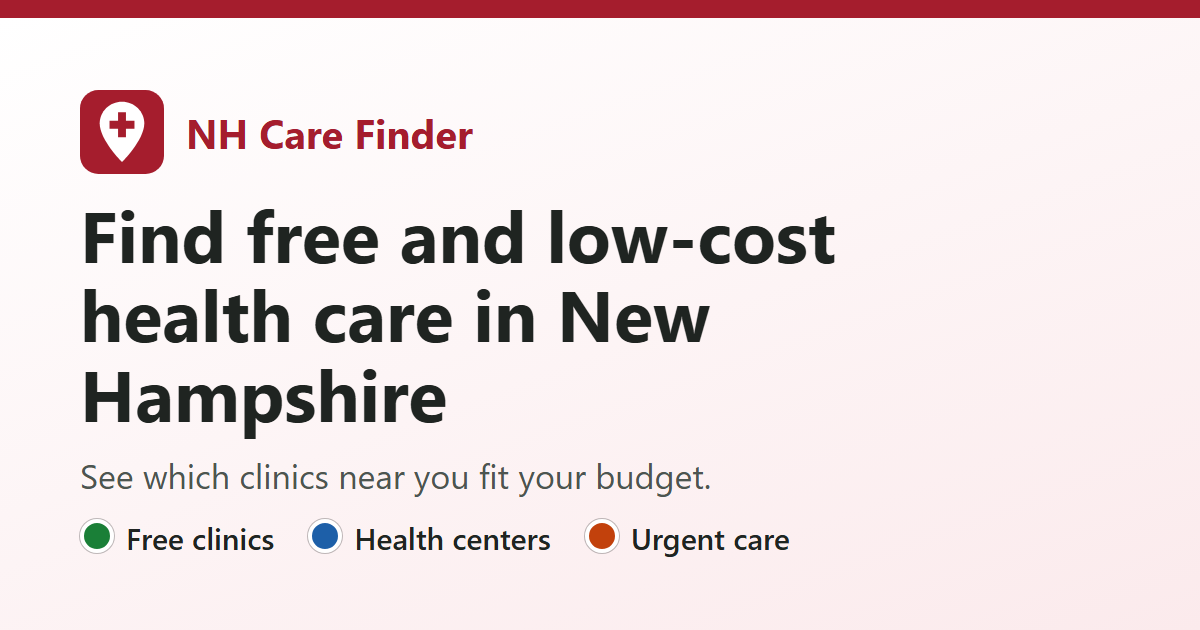
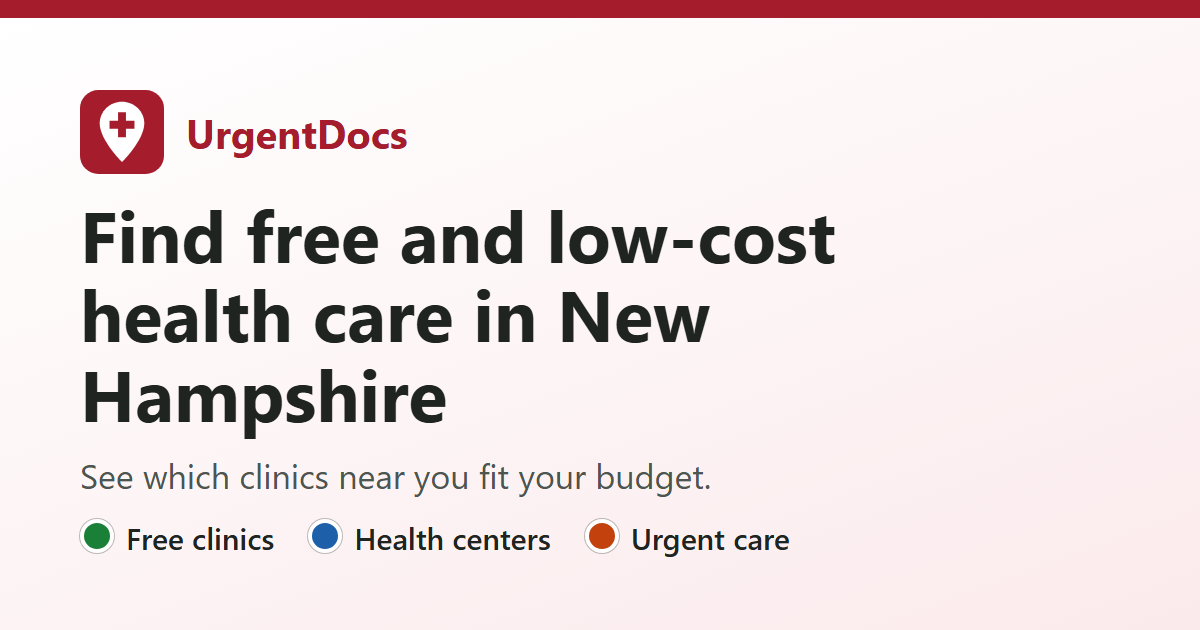
Rename the app to UrgentDocs
Replace "NH Care Finder" on every page, in every translation, the home
screen manifest, README, and project notes, and redraw the link
preview image with the new name.

Changed region(s): [[0.1542, 0.181, 0.4008, 0.2714]]

diff --git a/translations.js b/translations.js
@@ -21,10 +21,10 @@ const TRANSLATIONS = {
     "nav-about": "Acerca de",
     "footer-guide": "Esta aplicación es una guía, no un consejo médico. Llame antes para confirmar el horario y los costos.",
     "footer-about": "Acerca de esta aplicación y sus fuentes de datos",
-    "title-map": "Mapa · NH Care Finder",
-    "title-cost": "Ayuda con costos · NH Care Finder",
-    "title-help": "Más ayuda · NH Care Finder",
-    "title-about": "Acerca de · NH Care Finder",
+    "title-map": "Mapa · UrgentDocs",
+    "title-cost": "Ayuda con costos · UrgentDocs",
+    "title-help": "Más ayuda · UrgentDocs",
+    "title-about": "Acerca de · UrgentDocs",
 
     // --- Home page ---
     "home-title": "Encuentre atención médica gratuita y de bajo costo en New Hampshire",
@@ -104,8 +104,8 @@ const TRANSLATIONS = {
     "rx-generic": "<strong>Para todos:</strong> pregunte a su médico o farmacéutico si hay un medicamento genérico. Los genéricos suelen costar menos.",
 
     // --- About page ---
-    "about-heading": "Acerca de NH Care Finder",
-    "about-intro": "Muchas personas dejan de ir al médico porque les preocupa el costo. NH Care Finder ayuda a las personas en New Hampshire a encontrar las clínicas gratuitas y de bajo costo y los centros de atención de urgencia más cercanos, y a entender cuánto podrían pagar antes de ir.",
+    "about-heading": "Acerca de UrgentDocs",
+    "about-intro": "Muchas personas dejan de ir al médico porque les preocupa el costo. UrgentDocs ayuda a las personas en New Hampshire a encontrar las clínicas gratuitas y de bajo costo y los centros de atención de urgencia más cercanos, y a entender cuánto podrían pagar antes de ir.",
     "about-built": "Creado para el Congressional App Challenge 2026.",
     "about-privacy-heading": "Su privacidad",
     "about-privacy-1": "Su ubicación solo se usa en su dispositivo para medir distancias. Nunca se guarda ni se envía a ningún lugar.",
@@ -229,10 +229,10 @@ const TRANSLATIONS = {
     "nav-about": "À propos",
     "footer-guide": "Cette application est un guide, pas un avis médical. Appelez avant pour confirmer les horaires et les coûts.",
     "footer-about": "À propos de cette application et de ses sources de données",
-    "title-map": "Carte · NH Care Finder",
-    "title-cost": "Aide aux coûts · NH Care Finder",
-    "title-help": "Plus d'aide · NH Care Finder",
-    "title-about": "À propos · NH Care Finder",
+    "title-map": "Carte · UrgentDocs",
+    "title-cost": "Aide aux coûts · UrgentDocs",
+    "title-help": "Plus d'aide · UrgentDocs",
+    "title-about": "À propos · UrgentDocs",
 
     // --- Home page ---
     "home-title": "Trouvez des soins gratuits ou à faible coût au New Hampshire",
@@ -312,8 +312,8 @@ const TRANSLATIONS = {
     "rx-generic": "<strong>Pour tous :</strong> demandez à votre médecin ou à votre pharmacien s'il existe un médicament générique. Les génériques coûtent généralement moins cher.",
 
     // --- About page ---
-    "about-heading": "À propos de NH Care Finder",
-    "about-intro": "Beaucoup de gens repoussent une visite chez le médecin parce qu'ils s'inquiètent du coût. NH Care Finder aide les habitants du New Hampshire à trouver les cliniques gratuites ou à faible coût et les centres de soins urgents les plus proches, et à comprendre ce qu'ils risquent de payer avant d'y aller.",
+    "about-heading": "À propos de UrgentDocs",
+    "about-intro": "Beaucoup de gens repoussent une visite chez le médecin parce qu'ils s'inquiètent du coût. UrgentDocs aide les habitants du New Hampshire à trouver les cliniques gratuites ou à faible coût et les centres de soins urgents les plus proches, et à comprendre ce qu'ils risquent de payer avant d'y aller.",
     "about-built": "Créé pour le Congressional App Challenge 2026.",
     "about-privacy-heading": "Votre vie privée",
     "about-privacy-1": "Votre position n'est utilisée que sur votre appareil pour mesurer les distances. Elle n'est jamais enregistrée ni envoyée nulle part.",
@@ -437,10 +437,10 @@ const TRANSLATIONS = {
     "nav-about": "حول التطبيق",
     "footer-guide": "هذا التطبيق دليل وليس نصيحة طبية. اتصل مسبقًا لتأكيد المواعيد والتكاليف.",
     "footer-about": "حول هذا التطبيق ومصادر بياناته",
-    "title-map": "الخريطة · NH Care Finder",
-    "title-cost": "مساعد التكاليف · NH Care Finder",
-    "title-help": "مساعدة إضافية · NH Care Finder",
-    "title-about": "حول التطبيق · NH Care Finder",
+    "title-map": "الخريطة · UrgentDocs",
+    "title-cost": "مساعد التكاليف · UrgentDocs",
+    "title-help": "مساعدة إضافية · UrgentDocs",
+    "title-about": "حول التطبيق · UrgentDocs",
 
     // --- Home page ---
     "home-title": "اعثر على رعاية صحية مجانية ومنخفضة التكلفة في نيوهامبشر",
@@ -520,8 +520,8 @@ const TRANSLATIONS = {
     "rx-generic": "<strong>للجميع:</strong> اسأل طبيبك أو الصيدلي إن كان هناك دواء بديل (جنيس). الأدوية البديلة عادةً أرخص.",
 
     // --- About page ---
-    "about-heading": "حول NH Care Finder",
-    "about-intro": "كثير من الناس يؤجلون زيارة الطبيب لأنهم قلقون من التكلفة. يساعد NH Care Finder سكان نيوهامبشر على العثور على أقرب العيادات المجانية ومنخفضة التكلفة ومراكز الرعاية العاجلة، وفهم ما قد يدفعونه قبل الذهاب.",
+    "about-heading": "حول UrgentDocs",
+    "about-intro": "كثير من الناس يؤجلون زيارة الطبيب لأنهم قلقون من التكلفة. يساعد UrgentDocs سكان نيوهامبشر على العثور على أقرب العيادات المجانية ومنخفضة التكلفة ومراكز الرعاية العاجلة، وفهم ما قد يدفعونه قبل الذهاب.",
     "about-built": "صُمم لمسابقة التطبيقات في الكونغرس لعام 2026.",
     "about-privacy-heading": "خصوصيتك",
     "about-privacy-1": "يُستخدم موقعك على جهازك فقط لحساب المسافات. لا يُحفظ ولا يُرسل إلى أي مكان أبدًا.",
@@ -645,10 +645,10 @@ const TRANSLATIONS = {
     "nav-about": "关于",
     "footer-guide": "本应用仅供参考，不构成医疗建议。请提前致电确认营业时间和费用。",
     "footer-about": "关于本应用及其数据来源",
-    "title-map": "地图 · NH Care Finder",
-    "title-cost": "费用助手 · NH Care Finder",
-    "title-help": "更多帮助 · NH Care Finder",
-    "title-about": "关于 · NH Care Finder",
+    "title-map": "地图 · UrgentDocs",
+    "title-cost": "费用助手 · UrgentDocs",
+    "title-help": "更多帮助 · UrgentDocs",
+    "title-about": "关于 · UrgentDocs",
 
     // --- Home page ---
     "home-title": "在新罕布什尔州寻找免费和低价医疗服务",
@@ -728,8 +728,8 @@ const TRANSLATIONS = {
     "rx-generic": "<strong>所有人：</strong>询问您的医生或药剂师是否有仿制药。仿制药通常更便宜。",
 
     // --- About page ---
-    "about-heading": "关于 NH Care Finder",
-    "about-intro": "很多人因为担心费用而推迟看医生。NH Care Finder 帮助新罕布什尔州的居民找到最近的免费和低价诊所以及紧急护理中心，并在就诊前了解可能需要支付的费用。",
+    "about-heading": "关于 UrgentDocs",
+    "about-intro": "很多人因为担心费用而推迟看医生。UrgentDocs 帮助新罕布什尔州的居民找到最近的免费和低价诊所以及紧急护理中心，并在就诊前了解可能需要支付的费用。",
     "about-built": "为 2026 年国会应用程序挑战赛而开发。",
     "about-privacy-heading": "您的隐私",
     "about-privacy-1": "您的位置只在您的设备上用于计算距离，绝不会被保存或发送到任何地方。",
@@ -853,10 +853,10 @@ const TRANSLATIONS = {
     "nav-about": "تعارف",
     "footer-guide": "یہ ایپ ایک رہنما ہے، طبی مشورہ نہیں۔ اوقات اور اخراجات کی تصدیق کے لیے پہلے سے کال کریں۔",
     "footer-about": "اس ایپ اور اس کے ڈیٹا کے ذرائع کے بارے میں",
-    "title-map": "نقشہ · NH Care Finder",
-    "title-cost": "اخراجات کا مددگار · NH Care Finder",
-    "title-help": "مزید مدد · NH Care Finder",
-    "title-about": "تعارف · NH Care Finder",
+    "title-map": "نقشہ · UrgentDocs",
+    "title-cost": "اخراجات کا مددگار · UrgentDocs",
+    "title-help": "مزید مدد · UrgentDocs",
+    "title-about": "تعارف · UrgentDocs",
 
     // --- Home page ---
     "home-title": "نیو ہیمپشائر میں مفت اور کم قیمت طبی سہولت تلاش کریں",
@@ -936,8 +936,8 @@ const TRANSLATIONS = {
     "rx-generic": "<strong>سب کے لیے:</strong> اپنے ڈاکٹر یا فارماسسٹ سے پوچھیں کہ کیا جنرک دوا دستیاب ہے۔ جنرک دوائیں عام طور پر سستی ہوتی ہیں۔",
 
     // --- About page ---
-    "about-heading": "NH Care Finder کا تعارف",
-    "about-intro": "بہت سے لوگ خرچ کی فکر میں ڈاکٹر کے پاس جانا ٹال دیتے ہیں۔ NH Care Finder نیو ہیمپشائر کے لوگوں کو قریب ترین مفت اور کم قیمت کلینک اور فوری نگہداشت کے مراکز تلاش کرنے، اور جانے سے پہلے یہ سمجھنے میں مدد دیتی ہے کہ انہیں کتنا ادا کرنا پڑ سکتا ہے۔",
+    "about-heading": "UrgentDocs کا تعارف",
+    "about-intro": "بہت سے لوگ خرچ کی فکر میں ڈاکٹر کے پاس جانا ٹال دیتے ہیں۔ UrgentDocs نیو ہیمپشائر کے لوگوں کو قریب ترین مفت اور کم قیمت کلینک اور فوری نگہداشت کے مراکز تلاش کرنے، اور جانے سے پہلے یہ سمجھنے میں مدد دیتی ہے کہ انہیں کتنا ادا کرنا پڑ سکتا ہے۔",
     "about-built": "2026 کے کانگریشنل ایپ چیلنج کے لیے بنائی گئی۔",
     "about-privacy-heading": "آپ کی پرائیویسی",
     "about-privacy-1": "آپ کا مقام صرف آپ کے آلے پر فاصلے ناپنے کے لیے استعمال ہوتا ہے۔ اسے کبھی محفوظ نہیں کیا جاتا اور نہ کہیں بھیجا جاتا ہے۔",
@@ -1061,10 +1061,10 @@ const TRANSLATIONS = {
     "nav-about": "소개",
     "footer-guide": "이 앱은 안내용이며 의학적 조언이 아닙니다. 진료 시간과 비용은 미리 전화로 확인하세요.",
     "footer-about": "이 앱과 데이터 출처 소개",
-    "title-map": "지도 · NH Care Finder",
-    "title-cost": "비용 도우미 · NH Care Finder",
-    "title-help": "추가 도움 · NH Care Finder",
-    "title-about": "소개 · NH Care Finder",
+    "title-map": "지도 · UrgentDocs",
+    "title-cost": "비용 도우미 · UrgentDocs",
+    "title-help": "추가 도움 · UrgentDocs",
+    "title-about": "소개 · UrgentDocs",
 
     // --- Home page ---
     "home-title": "뉴햄프셔에서 무료 및 저비용 의료 서비스 찾기",
@@ -1144,8 +1144,8 @@ const TRANSLATIONS = {
     "rx-generic": "<strong>모든 분:</strong> 의사나 약사에게 복제약(제네릭)이 있는지 물어보세요. 복제약은 보통 더 저렴합니다.",
 
     // --- About page ---
-    "about-heading": "NH Care Finder 소개",
-    "about-intro": "많은 사람이 비용이 걱정되어 병원 방문을 미룹니다. NH Care Finder는 뉴햄프셔 주민이 가장 가까운 무료 및 저비용 진료소와 긴급 진료 센터를 찾고, 가기 전에 얼마를 낼지 이해하도록 돕습니다.",
+    "about-heading": "UrgentDocs 소개",
+    "about-intro": "많은 사람이 비용이 걱정되어 병원 방문을 미룹니다. UrgentDocs는 뉴햄프셔 주민이 가장 가까운 무료 및 저비용 진료소와 긴급 진료 센터를 찾고, 가기 전에 얼마를 낼지 이해하도록 돕습니다.",
     "about-built": "2026 의회 앱 챌린지(Congressional App Challenge)를 위해 만들었습니다.",
     "about-privacy-heading": "개인정보 보호",
     "about-privacy-1": "위치는 거리를 계산하기 위해 내 기기에서만 사용됩니다. 절대 저장되거나 어디로도 전송되지 않습니다.",
@@ -1269,10 +1269,10 @@ const TRANSLATIONS = {
     "nav-about": "Sobre",
     "footer-guide": "Este aplicativo é um guia, não um conselho médico. Ligue antes para confirmar horários e custos.",
     "footer-about": "Sobre este aplicativo e suas fontes de dados",
-    "title-map": "Mapa · NH Care Finder",
-    "title-cost": "Ajuda com custos · NH Care Finder",
-    "title-help": "Mais ajuda · NH Care Finder",
-    "title-about": "Sobre · NH Care Finder",
+    "title-map": "Mapa · UrgentDocs",
+    "title-cost": "Ajuda com custos · UrgentDocs",
+    "title-help": "Mais ajuda · UrgentDocs",
+    "title-about": "Sobre · UrgentDocs",
 
     // --- Home page ---
     "home-title": "Encontre atendimento de saúde gratuito e de baixo custo em New Hampshire",
@@ -1352,8 +1352,8 @@ const TRANSLATIONS = {
     "rx-generic": "<strong>Para todos:</strong> pergunte ao seu médico ou farmacêutico se existe um remédio genérico. Os genéricos costumam custar menos.",
 
     // --- About page ---
-    "about-heading": "Sobre o NH Care Finder",
-    "about-intro": "Muitas pessoas adiam a ida ao médico porque se preocupam com o custo. O NH Care Finder ajuda as pessoas em New Hampshire a encontrar as clínicas gratuitas e de baixo custo e os prontos atendimentos mais próximos, e a entender quanto provavelmente vão pagar antes de ir.",
+    "about-heading": "Sobre o UrgentDocs",
+    "about-intro": "Muitas pessoas adiam a ida ao médico porque se preocupam com o custo. O UrgentDocs ajuda as pessoas em New Hampshire a encontrar as clínicas gratuitas e de baixo custo e os prontos atendimentos mais próximos, e a entender quanto provavelmente vão pagar antes de ir.",
     "about-built": "Criado para o Congressional App Challenge de 2026.",
     "about-privacy-heading": "Sua privacidade",
     "about-privacy-1": "Sua localização é usada apenas no seu aparelho para medir distâncias. Ela nunca é salva nem enviada para lugar nenhum.",

diff --git a/about.html b/about.html
@@ -4,13 +4,13 @@
     <meta charset="utf-8">
     <meta name="viewport" content="width=device-width, initial-scale=1">
     <meta name="theme-color" content="#a51d2d">
-    <title data-i18n="title-about">About · NH Care Finder</title>
+    <title data-i18n="title-about">About · UrgentDocs</title>
     <meta name="description" content="Find free and low-cost clinics and urgent care near you in New Hampshire, and see which ones fit your budget.">
     <link rel="icon" href="icon.svg" type="image/svg+xml">
     <link rel="apple-touch-icon" href="apple-touch-icon.png">
     <link rel="manifest" href="manifest.webmanifest">
     <!-- What shows up when someone shares a link to the app. -->
-    <meta property="og:title" content="About · NH Care Finder">
+    <meta property="og:title" content="About · UrgentDocs">
     <meta property="og:description" content="Find free and low-cost clinics and urgent care near you in New Hampshire, and see which ones fit your budget.">
     <meta property="og:image" content="https://hamzalabib325-bit.github.io/NH-care-project/preview.png">
     <meta property="og:url" content="https://hamzalabib325-bit.github.io/NH-care-project/about.html">
@@ -37,10 +37,10 @@
     </header>
 
     <main class="page about">
-      <h1 data-i18n="about-heading">About NH Care Finder</h1>
+      <h1 data-i18n="about-heading">About UrgentDocs</h1>
       <p class="lead" data-i18n="about-intro">
         Many people put off seeing a doctor because they're worried about the cost.
-        NH Care Finder helps people in New Hampshire find the closest free and low-cost
+        UrgentDocs helps people in New Hampshire find the closest free and low-cost
         clinics and urgent care centers, and understand what they're likely to pay before they go.
       </p>
       <p data-i18n="about-built">Built for the 2026 Congressional App Challenge.</p>

diff --git a/index.html b/index.html
@@ -5,12 +5,12 @@
     <meta name="viewport" content="width=device-width, initial-scale=1">
     <meta name="theme-color" content="#a51d2d">
     <meta name="description" content="Find free and low-cost clinics and urgent care near you in New Hampshire, and see which ones fit your budget.">
-    <title>NH Care Finder</title>
+    <title>UrgentDocs</title>
     <link rel="icon" href="icon.svg" type="image/svg+xml">
     <link rel="apple-touch-icon" href="apple-touch-icon.png">
     <link rel="manifest" href="manifest.webmanifest">
     <!-- What shows up when someone shares a link to the app. -->
-    <meta property="og:title" content="NH Care Finder">
+    <meta property="og:title" content="UrgentDocs">
     <meta property="og:description" content="Find free and low-cost clinics and urgent care near you in New Hampshire, and see which ones fit your budget.">
     <meta property="og:image" content="https://hamzalabib325-bit.github.io/NH-care-project/preview.png">
     <meta property="og:url" content="https://hamzalabib325-bit.github.io/NH-care-project/">
@@ -38,7 +38,7 @@
 
     <main class="page home">
       <section class="hero">
-        <p class="eyebrow">NH Care Finder</p>
+        <p class="eyebrow">UrgentDocs</p>
         <h1 data-i18n="home-title">Find free and low-cost health care in New Hampshire</h1>
         <p class="hero-text" data-i18n="home-intro">
           Worried about what a doctor visit will cost? Find clinics near you,

diff --git a/cost.html b/cost.html
@@ -4,13 +4,13 @@
     <meta charset="utf-8">
     <meta name="viewport" content="width=device-width, initial-scale=1">
     <meta name="theme-color" content="#a51d2d">
-    <title data-i18n="title-cost">Cost helper · NH Care Finder</title>
+    <title data-i18n="title-cost">Cost helper · UrgentDocs</title>
     <meta name="description" content="Find free and low-cost clinics and urgent care near you in New Hampshire, and see which ones fit your budget.">
     <link rel="icon" href="icon.svg" type="image/svg+xml">
     <link rel="apple-touch-icon" href="apple-touch-icon.png">
     <link rel="manifest" href="manifest.webmanifest">
     <!-- What shows up when someone shares a link to the app. -->
-    <meta property="og:title" content="Cost helper · NH Care Finder">
+    <meta property="og:title" content="Cost helper · UrgentDocs">
     <meta property="og:description" content="Find free and low-cost clinics and urgent care near you in New Hampshire, and see which ones fit your budget.">
     <meta property="og:image" content="https://hamzalabib325-bit.github.io/NH-care-project/preview.png">
     <meta property="og:url" content="https://hamzalabib325-bit.github.io/NH-care-project/cost.html">

diff --git a/help.html b/help.html
@@ -4,13 +4,13 @@
     <meta charset="utf-8">
     <meta name="viewport" content="width=device-width, initial-scale=1">
     <meta name="theme-color" content="#a51d2d">
-    <title data-i18n="title-help">More help · NH Care Finder</title>
+    <title data-i18n="title-help">More help · UrgentDocs</title>
     <meta name="description" content="Find free and low-cost clinics and urgent care near you in New Hampshire, and see which ones fit your budget.">
     <link rel="icon" href="icon.svg" type="image/svg+xml">
     <link rel="apple-touch-icon" href="apple-touch-icon.png">
     <link rel="manifest" href="manifest.webmanifest">
     <!-- What shows up when someone shares a link to the app. -->
-    <meta property="og:title" content="More help · NH Care Finder">
+    <meta property="og:title" content="More help · UrgentDocs">
     <meta property="og:description" content="Find free and low-cost clinics and urgent care near you in New Hampshire, and see which ones fit your budget.">
     <meta property="og:image" content="https://hamzalabib325-bit.github.io/NH-care-project/preview.png">
     <meta property="og:url" content="https://hamzalabib325-bit.github.io/NH-care-project/help.html">

diff --git a/map.html b/map.html
@@ -4,13 +4,13 @@
     <meta charset="utf-8">
     <meta name="viewport" content="width=device-width, initial-scale=1">
     <meta name="theme-color" content="#a51d2d">
-    <title data-i18n="title-map">Map · NH Care Finder</title>
+    <title data-i18n="title-map">Map · UrgentDocs</title>
     <meta name="description" content="Find free and low-cost clinics and urgent care near you in New Hampshire, and see which ones fit your budget.">
     <link rel="icon" href="icon.svg" type="image/svg+xml">
     <link rel="apple-touch-icon" href="apple-touch-icon.png">
     <link rel="manifest" href="manifest.webmanifest">
     <!-- What shows up when someone shares a link to the app. -->
-    <meta property="og:title" content="Map · NH Care Finder">
+    <meta property="og:title" content="Map · UrgentDocs">
     <meta property="og:description" content="Find free and low-cost clinics and urgent care near you in New Hampshire, and see which ones fit your budget.">
     <meta property="og:image" content="https://hamzalabib325-bit.github.io/NH-care-project/preview.png">
     <meta property="og:url" content="https://hamzalabib325-bit.github.io/NH-care-project/map.html">

diff --git a/README.md b/README.md
@@ -1,8 +1,8 @@
-# NH Care Finder
+# UrgentDocs
 
 **Find free and low-cost health care in New Hampshire, and know what you might pay before you go.**
 
-Many people put off seeing a doctor because they are worried about the cost. NH Care Finder helps people in New Hampshire find the closest free clinics, community health centers, and urgent care centers, and shows which ones are the best fit for their budget.
+Many people put off seeing a doctor because they are worried about the cost. UrgentDocs helps people in New Hampshire find the closest free clinics, community health centers, and urgent care centers, and shows which ones are the best fit for their budget.
 
 Built for the 2026 Congressional App Challenge.
 

diff --git a/protoype1.md b/protoype1.md
@@ -1,4 +1,4 @@
-# NH Care Finder — Project Context
+# UrgentDocs — Project Context
 
 ## What this app does
 A web app that helps people in New Hampshire find the nearest urgent care centers
